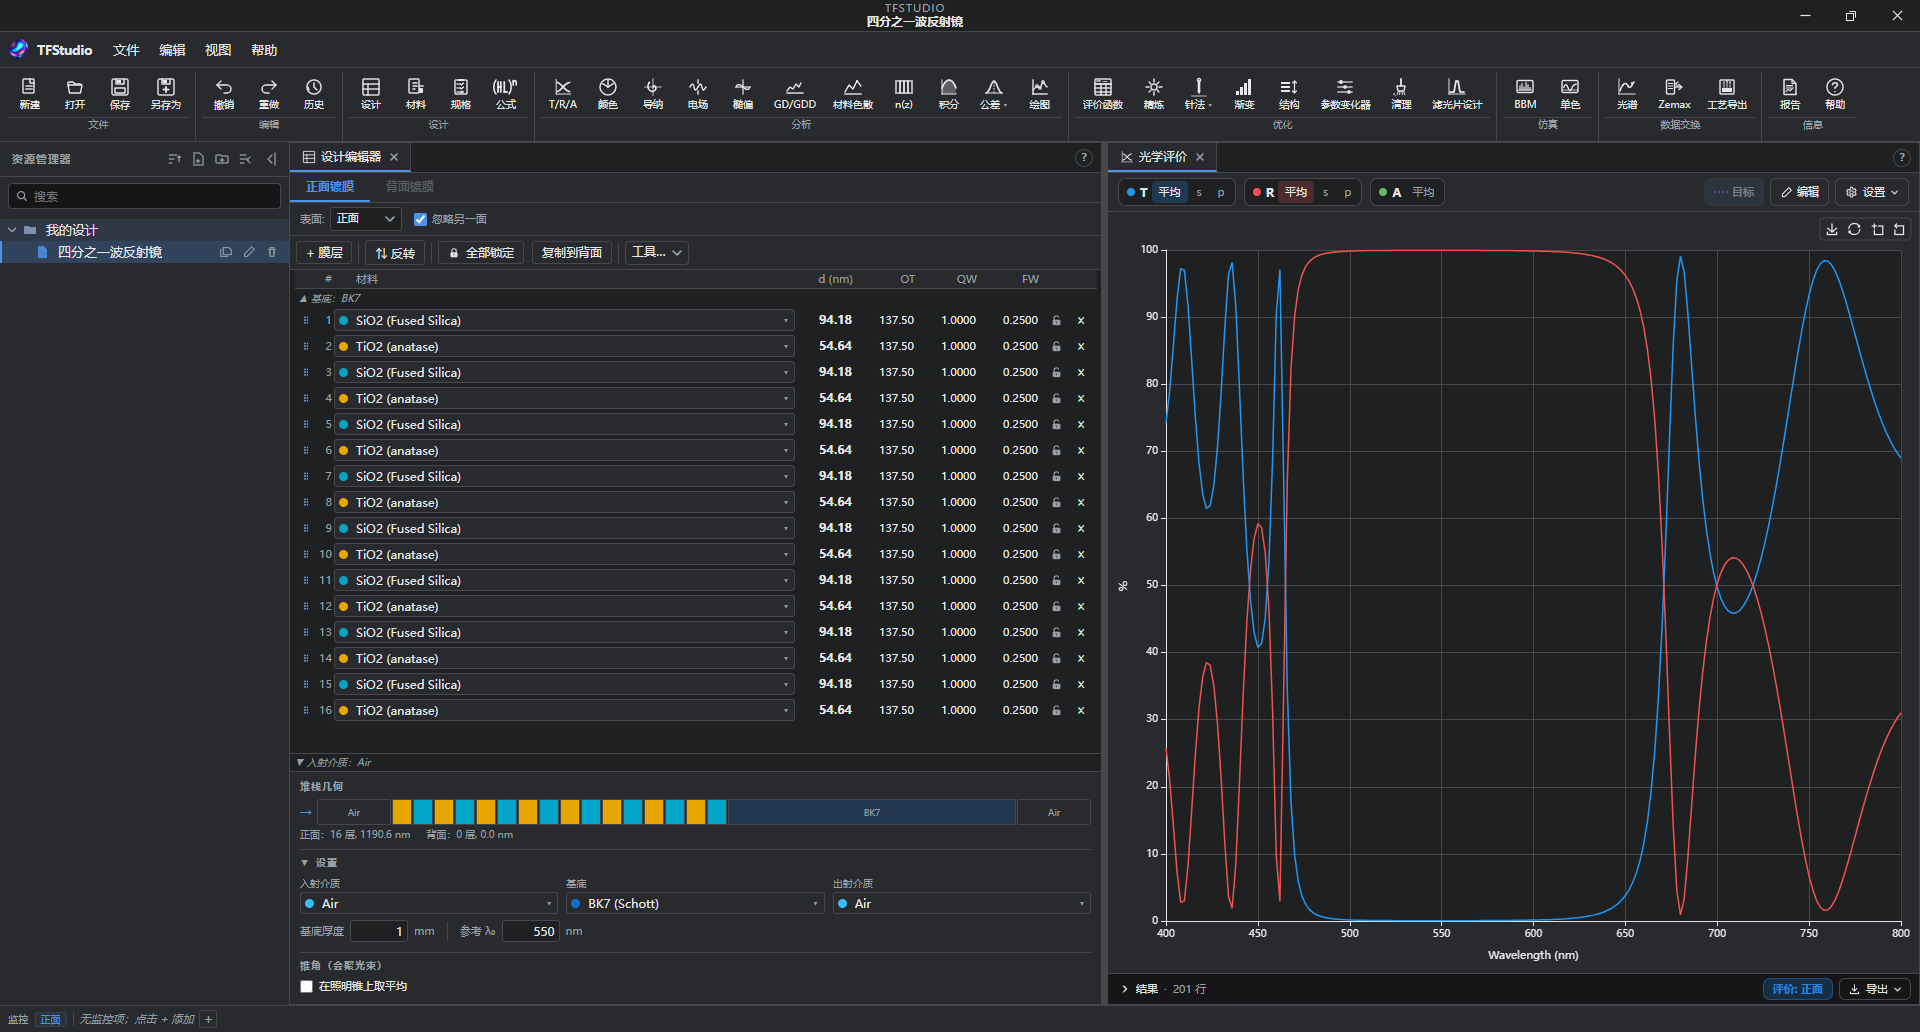
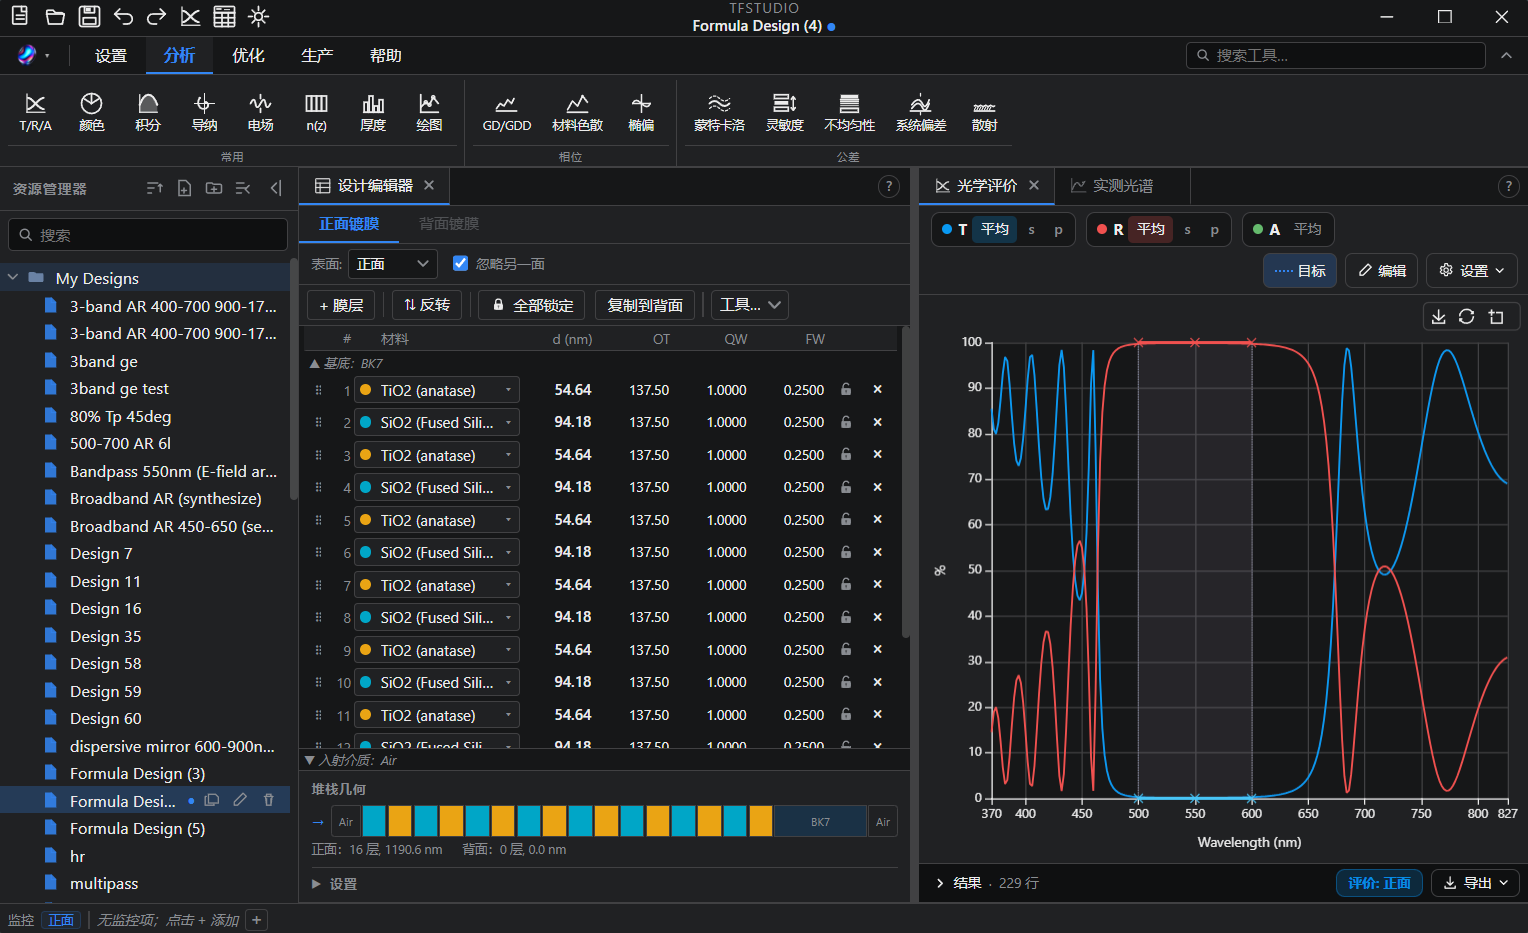
assets

diff --git a/README.md b/README.md
@@ -20,8 +20,9 @@
 
 **English** · [简体中文](./README.zh-CN.md)
 
+![TFStudio main window](assets/screenshot-main.png)
+
 </div>
-<img width="1919" height="1141" alt="Screenshot_83" src="https://github.com/user-attachments/assets/bcd4f5cc-e2d4-4382-a07d-8aed9346cd48" />
 
 
 
